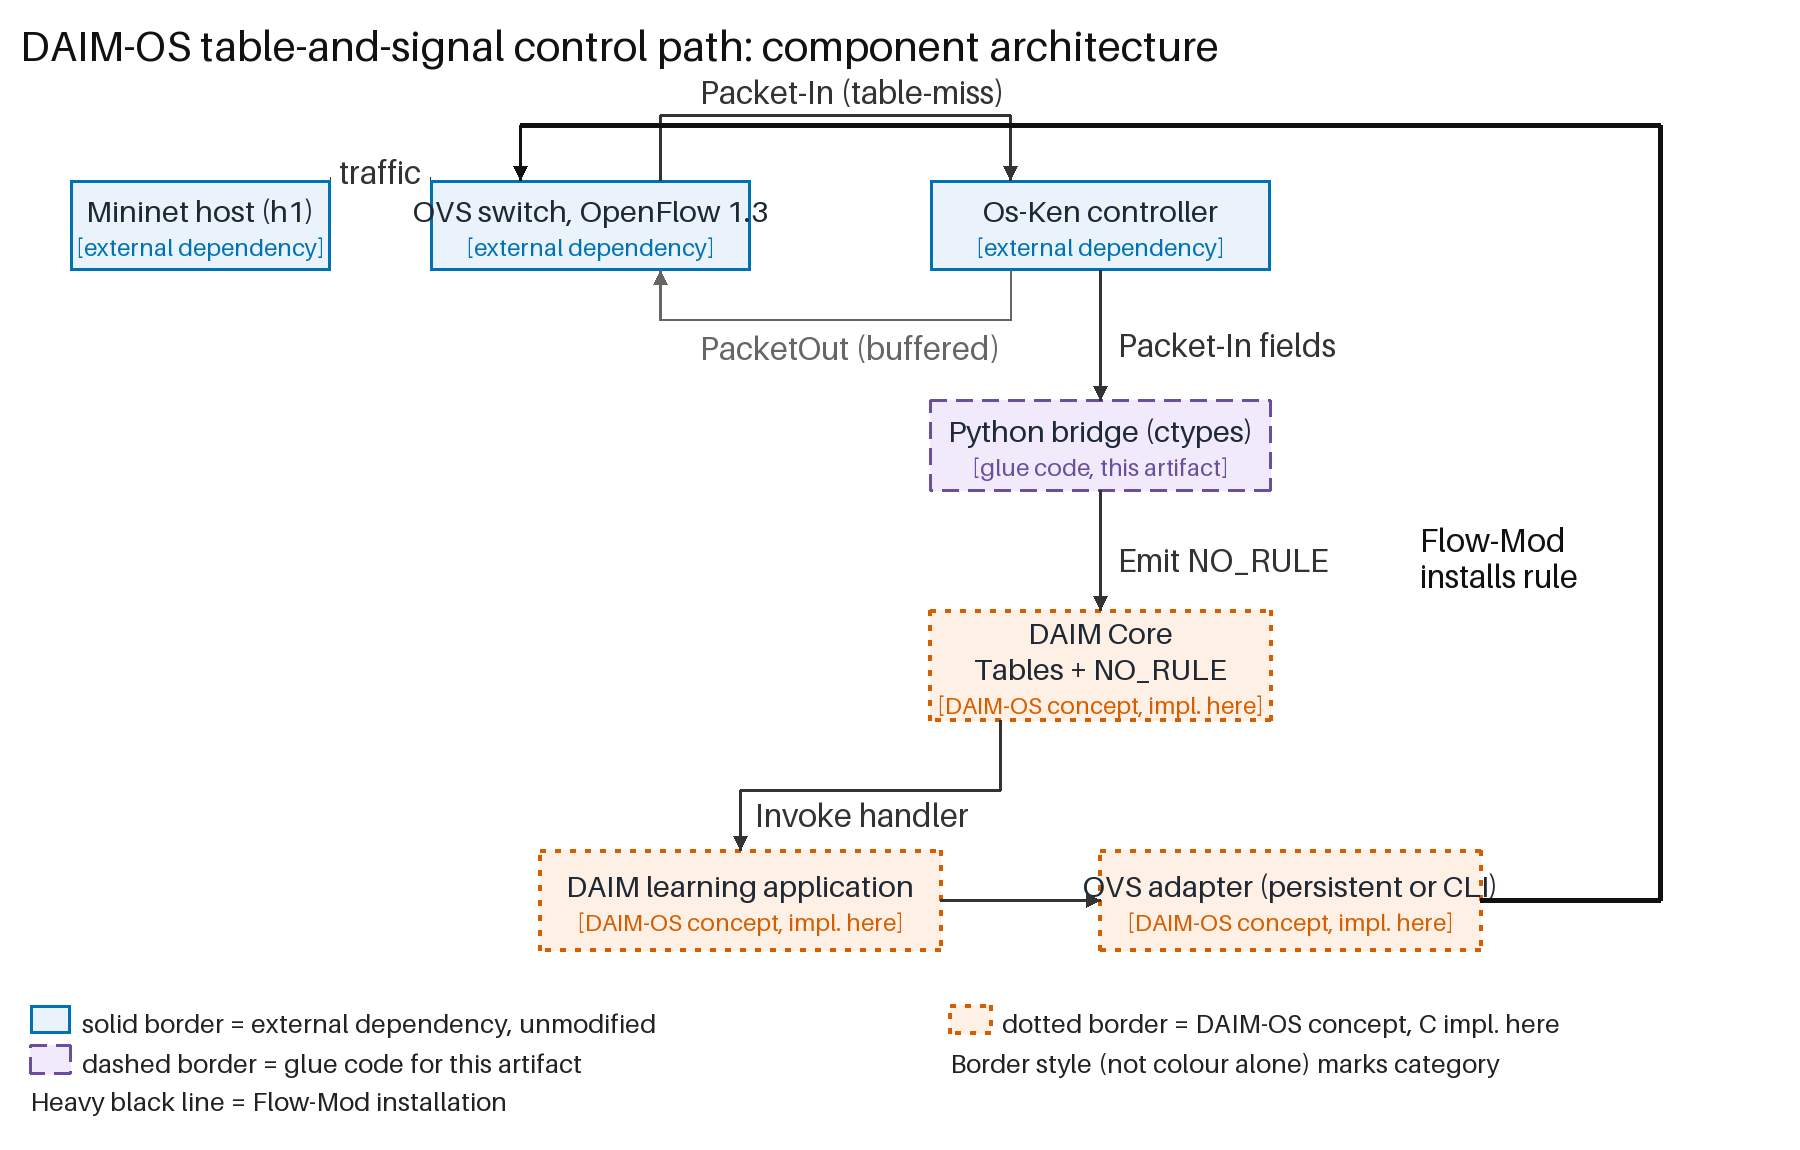
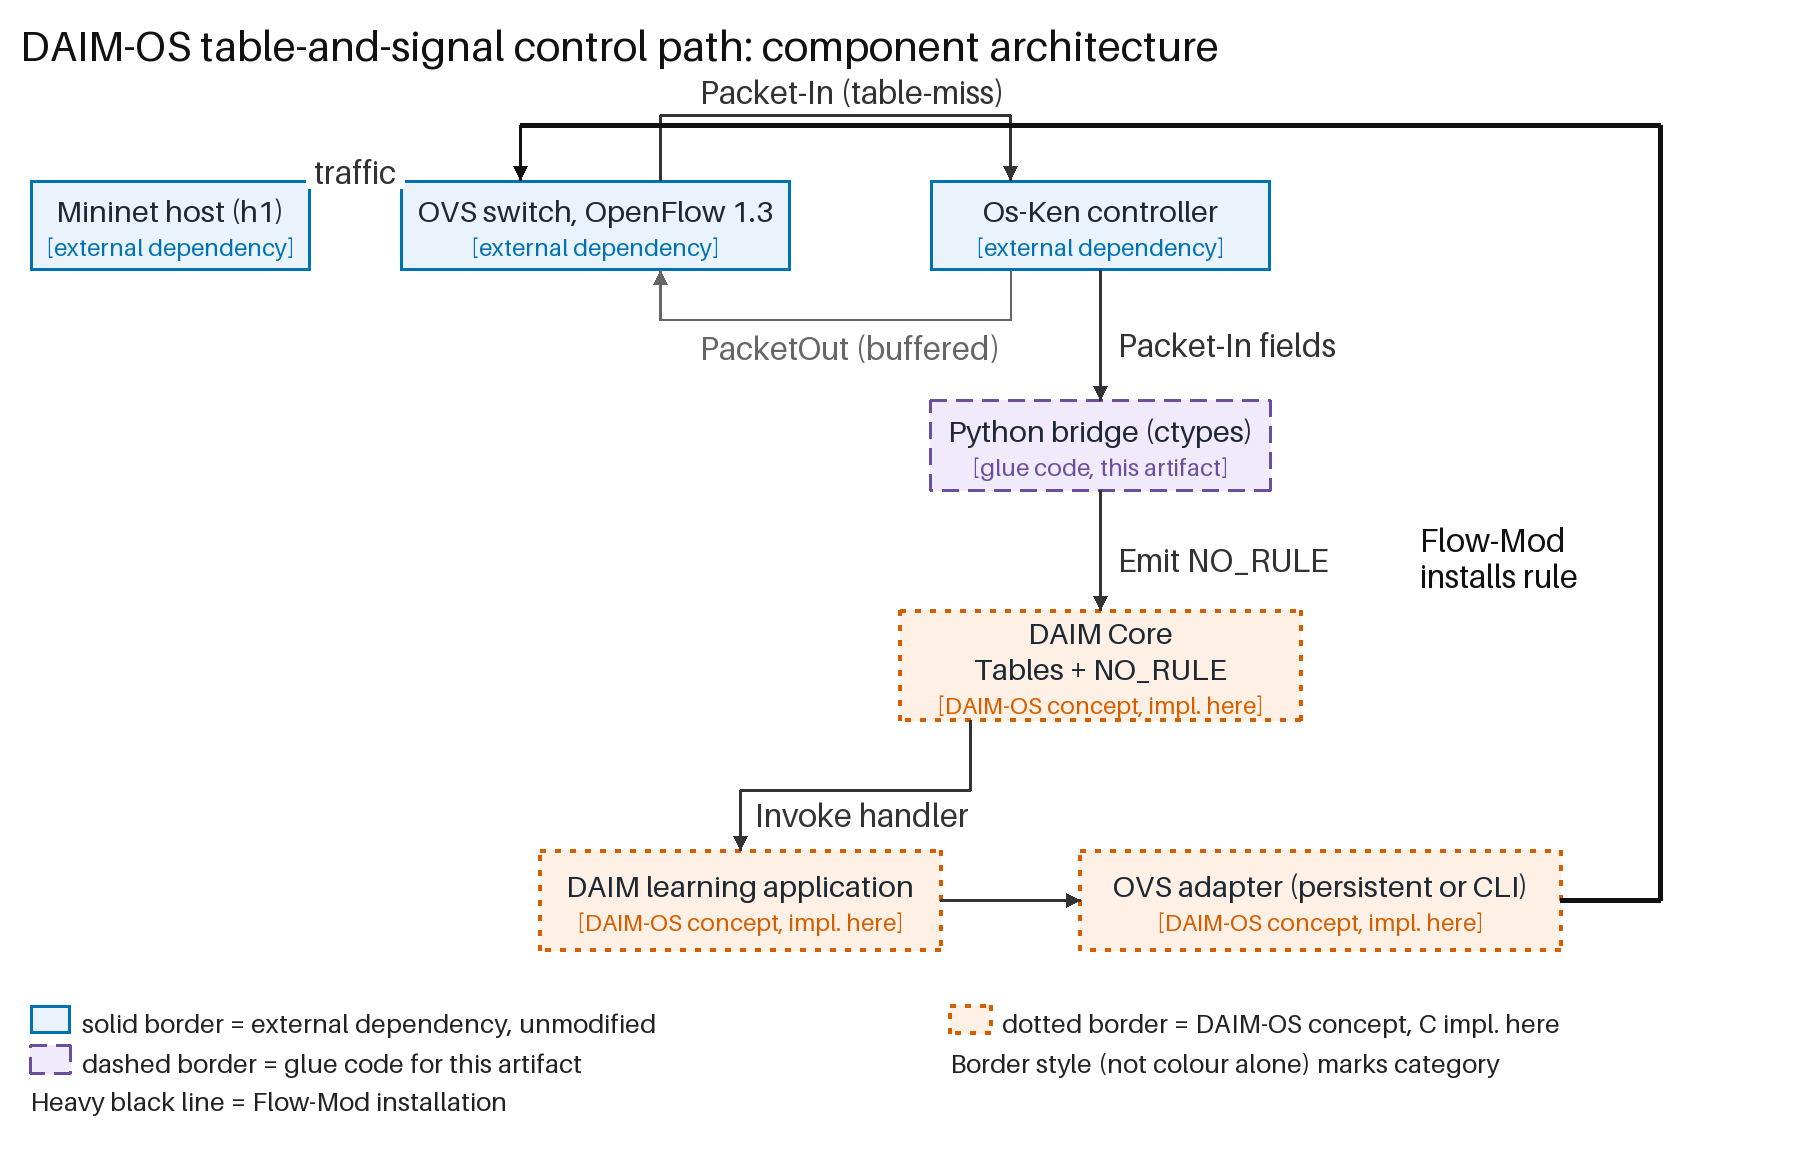
Redraw Figures 2, 7 and 9 to remove overlaps (visual-only; data unchanged)

diff --git a/analysis/stage2_full_compare_paired_analysis.py b/analysis/stage2_full_compare_paired_analysis.py
@@ -28,22 +28,29 @@ BOOTSTRAPS = 20000
 MODES = ["daim_process_per_rule", "daim_persistent", "direct_ovs_cli", "direct_osken"]
 SIZES = [8, 16, 32, 64]
 MODE_LABELS = {
-    "daim_process_per_rule": "DAIM process-per-rule",
+    "daim_process_per_rule": "DAIM process/rule",
     "daim_persistent": "DAIM persistent",
     "direct_ovs_cli": "Direct ovs-ofctl",
-    "direct_osken": "Direct Os-Ken (no DAIM)",
+    "direct_osken": "Direct Os-Ken",
 }
-MODE_COLORS = {
-    "daim_process_per_rule": "#C45A24",
-    "daim_persistent": "#2457A6",
-    "direct_ovs_cli": "#6BA292",
-    "direct_osken": "#8A8A8A",
-}
+LINE_STYLES = ["solid", "dashed", "dotted", "dashdot"]
+MODE_COLORS = ["#0072B2", "#D55E00", "#009E73", "#7A5195"]
 PAIRS = [
     ("daim_persistent", "daim_process_per_rule"),
     ("daim_persistent", "direct_ovs_cli"),
     ("daim_persistent", "direct_osken"),
 ]
+
+def styled_segment(draw, a, b, style, width=3, color="#111111"):
+    x0,y0=a; x1,y1=b
+    length=max(1.0,((x1-x0)**2+(y1-y0)**2)**0.5)
+    patterns={"solid":[length],"dashed":[24,12],"dotted":[4,10],"dashdot":[24,9,4,9]}
+    pos=0.0; pi=0; on=True
+    while pos<length:
+        end=min(length,pos+patterns[style][pi%len(patterns[style])])
+        if on:
+            draw.line((x0+(x1-x0)*pos/length,y0+(y1-y0)*pos/length,x0+(x1-x0)*end/length,y0+(y1-y0)*end/length),fill=color,width=width)
+        pos=end; pi+=1; on=not on
 
 
 def bootstrap_mean_ci(values, rng):
@@ -61,74 +68,68 @@ def bootstrap_median_ci(values, rng):
 
 
 def draw_chart(per_mode, paired, path):
-    width, height = 1500, 1250
-    image = Image.new("RGB", (width, height), "white")
-    draw = ImageDraw.Draw(image)
-    font = ImageFont.load_default(size=34)
-    small = ImageFont.load_default(size=30)
+    """Two-panel figure (matplotlib; values in ms). Visual layout only --
+    the plotted statistics are those in the statistics JSON."""
+    import matplotlib
+    matplotlib.use("Agg")
+    import matplotlib.pyplot as plt
 
-    # Left panel: per-mode mean install time vs. size, with CI whiskers.
-    left0, left1 = 120, 1380
-    top, bottom = 70, 500
-    draw.line((left0, top, left0, bottom), fill="#222222", width=2)
-    draw.line((left0, bottom, left1, bottom), fill="#222222", width=2)
-    ymax = max(per_mode[s][m]["bootstrap_95_ci_us"][1] for s in SIZES for m in MODES) * 1.1
-    xs = {s: left0 + (i + 0.5) * (left1 - left0) / len(SIZES) for i, s in enumerate(SIZES)}
+    def get(d, k):
+        return d[k] if k in d else d[str(k)]
 
-    def y_of(v):
-        return bottom - (v / ymax) * (bottom - top)
+    markers = ["o", "s", "^", "D"]
+    fills = [True, False, False, False]
+    styles = ["-", "--", ":", "-."]
+    plt.rcParams.update({"font.size": 11, "axes.spines.top": False, "axes.spines.right": False})
+    fig, (ax1, ax2) = plt.subplots(1, 2, figsize=(11.5, 5.2), gridspec_kw={"width_ratios": [1, 1.05]})
 
-    for m in MODES:
-        pts = []
-        for s in SIZES:
-            v = per_mode[s][m]["mean_us"]
-            ci = per_mode[s][m]["bootstrap_95_ci_us"]
-            x = xs[s]
-            pts.append((x, y_of(v)))
-            draw.line((x, y_of(ci[0]), x, y_of(ci[1])), fill=MODE_COLORS[m], width=2)
-        for a, b in zip(pts, pts[1:]):
-            draw.line((*a, *b), fill=MODE_COLORS[m], width=3)
-        for x, y in pts:
-            draw.ellipse((x - 4, y - 4, x + 4, y + 4), fill=MODE_COLORS[m])
-    for s in SIZES:
-        draw.text((xs[s] - 10, bottom + 8), str(s), fill="#222222", font=small)
-    draw.text((left0, bottom + 30), "Switches (n); mean install time (us) with 95% CI", fill="#222222", font=font)
+    xs = list(range(len(SIZES)))
     for i, m in enumerate(MODES):
-        cy = top + i * 22
-        draw.rectangle((left0, cy, left0 + 16, cy + 12), fill=MODE_COLORS[m])
-        draw.text((left0 + 22, cy - 2), MODE_LABELS[m], fill="#222222", font=small)
+        means = [get(per_mode, s)[m]["mean_us"] / 1000 for s in SIZES]
+        lo = [get(per_mode, s)[m]["bootstrap_95_ci_us"][0] / 1000 for s in SIZES]
+        hi = [get(per_mode, s)[m]["bootstrap_95_ci_us"][1] / 1000 for s in SIZES]
+        off = (i - 1.5) * 0.06
+        ax1.errorbar([x + off for x in xs], means, yerr=[[a - l for a, l in zip(means, lo)], [h - a for a, h in zip(means, hi)]],
+                     color=MODE_COLORS[i], linestyle=styles[i], marker=markers[i], markersize=7,
+                     markerfacecolor=MODE_COLORS[i] if fills[i] else "white", capsize=3, linewidth=1.6,
+                     label=MODE_LABELS[m])
+    ax1.set_xticks(xs)
+    ax1.set_xticklabels([str(s) for s in SIZES])
+    ax1.set_xlabel("Number of OVS switches")
+    ax1.set_ylabel("Mean per-switch install time (ms)")
+    ax1.set_title("A. Per-mode mean, bootstrap 95% CI", loc="left", fontsize=12)
+    ax1.set_ylim(bottom=0)
+    ax1.grid(axis="y", alpha=0.2)
+    ax1.legend(loc="upper center", bbox_to_anchor=(0.5, -0.16), ncol=2, frameon=False, fontsize=9.5)
 
-    # Lower panel: paired mean differences (persistent - other), forest-plot style.
-    right0, right1 = 120, 1380
-    top, bottom = 670, 1100
-    all_diffs = [paired[s][f"{a}_minus_{b}"]["bootstrap_95_ci_us"] for s in SIZES for a, b in PAIRS]
-    dmax = max(abs(v) for ci in all_diffs for v in ci) * 1.15
-
-    def xd_of(v):
-        return (right0 + right1) / 2 + (v / dmax) * 430
-
-    draw.line((xd_of(0), top, xd_of(0), bottom), fill="#222222", width=2)
-    row_h = (bottom - top) / (len(SIZES) * len(PAIRS))
+    ypos = []
+    labels = []
     row = 0
-    pair_colors = ["#2457A6", "#6BA292", "#8A8A8A"]
-    for s in SIZES:
+    for si, s in enumerate(SIZES):
         for pi, (a, b) in enumerate(PAIRS):
-            y = top + (row + 0.5) * row_h
-            d = paired[s][f"{a}_minus_{b}"]
-            ci = d["bootstrap_95_ci_us"]
-            mean = d["mean_diff_us"]
-            draw.line((xd_of(ci[0]), y, xd_of(ci[1]), y), fill=pair_colors[pi], width=3)
-            draw.ellipse((xd_of(mean) - 3, y - 3, xd_of(mean) + 3, y + 3), fill=pair_colors[pi])
-            if pi == 0:
-                draw.text((right0, y - 7), f"n={s}", fill="#222222", font=small)
-            row += 1
-    draw.text((right0, bottom + 30), "Paired mean difference vs. persistent (us), 95% CI; 0 = no difference", fill="#222222", font=font)
-    for i, (a, b) in enumerate(PAIRS):
-        cy = top + i * 30
-        draw.rectangle((right0 + 670, cy, right0 + 690, cy + 18), fill=pair_colors[i])
-        draw.text((right0 + 700, cy - 4), f"persistent - {MODE_LABELS[b]}", fill="#222222", font=small)
-
-    image.save(path)
+            d = get(paired, s)[f"{a}_minus_{b}"]
+            ci = [v / 1000 for v in d["bootstrap_95_ci_us"]]
+            mean = d["mean_diff_us"] / 1000
+            y = -(si * 4 + pi)
+            ax2.plot(ci, [y, y], color=MODE_COLORS[pi], linestyle=styles[pi], linewidth=1.8)
+            ax2.plot([mean], [y], marker=markers[pi], color=MODE_COLORS[pi], markersize=7,
+                     markerfacecolor=MODE_COLORS[pi] if fills[pi] else "white")
+        ypos.append(-(si * 4 + 1))
+        labels.append(f"{s} switches")
+    ax2.axvline(0, color="#222222", linewidth=1.2)
+    ax2.set_yticks(ypos)
+    ax2.set_yticklabels(labels)
+    ax2.set_xlabel("Paired mean difference (ms), persistent minus comparison")
+    ax2.set_title("B. Paired difference vs. persistent, 95% CI", loc="left", fontsize=12)
+    ax2.grid(axis="x", alpha=0.2)
+    from matplotlib.lines import Line2D
+    handles = [Line2D([0], [0], color=MODE_COLORS[i], linestyle=styles[i], marker=markers[i],
+                      markerfacecolor=MODE_COLORS[i] if fills[i] else "white", label=f"persistent - {MODE_LABELS[b]}")
+               for i, (a, b) in enumerate(PAIRS)]
+    ax2.legend(handles=handles, loc="upper center", bbox_to_anchor=(0.5, -0.16), ncol=1, frameon=False, fontsize=9.5)
+    fig.tight_layout()
+    fig.savefig(path, dpi=200)
+    plt.close(fig)
 
 
 def main():
@@ -155,6 +156,8 @@ def main():
                 "sd_us": float(np.std(vals, ddof=1)) if len(vals) > 1 else 0.0,
                 "bootstrap_95_ci_us": bootstrap_mean_ci(vals, rng) if len(vals) > 1 else [vals[0], vals[0]],
                 "median_us": float(np.median(vals)),
+                "p95_us": float(np.percentile(vals, 95)),
+                "p99_us": float(np.percentile(vals, 99)),
                 "max_us": float(np.max(vals)),
                 "n_gt_2x_median": int(sum(1 for v in vals if v > 2 * np.median(vals))),
             }
@@ -176,6 +179,8 @@ def main():
                 "bootstrap_95_ci_us": bootstrap_mean_ci(diffs, rng) if len(diffs) > 1 else [diffs[0], diffs[0]],
                 "ratio_a_over_b": per_mode[size][a]["mean_us"] / per_mode[size][b]["mean_us"],
                 "median_diff_us": float(np.median(diffs)),
+                "p95_diff_us": float(np.percentile(diffs, 95)),
+                "p99_diff_us": float(np.percentile(diffs, 99)),
                 "bootstrap_95_ci_median_us": bootstrap_median_ci(diffs, rng) if len(diffs) > 1 else [diffs[0], diffs[0]],
                 "median_ratio_a_over_b": per_mode[size][a]["median_us"] / per_mode[size][b]["median_us"],
             }

diff --git a/analysis/paper1_analysis.py b/analysis/paper1_analysis.py
@@ -91,12 +91,12 @@ def draw_chart(rows, path):
         draw.text((x - 18, bottom + 18), str(size), fill="#222222", font=font)
     draw.text((530, 815), "Number of OVS switches", fill="#222222", font=font)
     draw.text((20, 20), "Mean per-switch rule installation time (ms), whiskers = bootstrap 95% CI", fill="#222222", font=font)
-    draw.ellipse((1006, 101, 1024, 119), fill=colors["daim_adapter"])
-    styled_segment(draw, (990,110), (1038,110), "solid", 4, colors["daim_adapter"])
-    draw.text((1045, 95), labels["daim_adapter"], fill="#222222", font=small)
-    draw.rectangle((1006, 146, 1024, 164), outline=colors["direct_ovs"], width=3, fill="white")
-    styled_segment(draw, (990,155), (1038,155), "dashed", 3, colors["direct_ovs"])
-    draw.text((1045, 140), labels["direct_ovs"], fill="#222222", font=small)
+    draw.ellipse((206, 121, 224, 139), fill=colors["daim_adapter"])
+    styled_segment(draw, (190,130), (238,130), "solid", 4, colors["daim_adapter"])
+    draw.text((245, 115), labels["daim_adapter"], fill="#222222", font=small)
+    draw.rectangle((206, 166, 224, 184), outline=colors["direct_ovs"], width=3, fill="white")
+    styled_segment(draw, (190,175), (238,175), "dashed", 3, colors["direct_ovs"])
+    draw.text((245, 160), labels["direct_ovs"], fill="#222222", font=small)
     image.save(path)
 
 
@@ -190,13 +190,13 @@ def draw_architecture(path):
 
     draw.text((20, 20), "DAIM-OS table-and-signal control path: component architecture", fill="#111111", font=title_font)
 
-    host = (70, 180, 330, 270)
-    switch = (430, 180, 750, 270)
+    host = (30, 180, 310, 270)
+    switch = (400, 180, 790, 270)
     controller = (930, 180, 1270, 270)
     bridge = (930, 400, 1270, 490)
-    core = (930, 610, 1270, 720)
+    core = (900, 610, 1300, 720)
     app = (540, 850, 940, 950)
-    adapter = (1100, 850, 1480, 950)
+    adapter = (1080, 850, 1560, 950)
 
     EXT_FILL, EXT_LINE = "#EAF2FB", "#0072B2"
     GLUE_FILL, GLUE_LINE = "#F0EAFB", "#6B4E9E"

diff --git a/docs/FIGURE_REVISION_20261002.md b/docs/FIGURE_REVISION_20261002.md
@@ -1,0 +1,26 @@
+# Visual-only figure revision (2026-10-02)
+
+Three figures were redrawn because labels and legends overlapped axes or data
+in the rendered manuscript. **No data, statistic or plotted value changed.**
+The redrawn figures read the same statistics JSON files (`paper1_statistics.json`,
+`stage2_full_compare_paired_statistics.json`), which are unmodified.
+
+| Figure | File | Change |
+| --- | --- | --- |
+| 2 | `results/paper1/paper1_architecture.png` | Component boxes widened so labels fit inside them |
+| 7 | `results/paper1/paper1_installation_time.png` | Legend moved off the data lines |
+| 9 | `results/paper1/stage2_full_compare_paired.png` | Redrawn with matplotlib: non-overlapping legends, labelled axes, panel B in ms with tick marks (previously unlabelled ticks, label in us) |
+
+Previous SHA-256 values of the packaged figures (the published v1.1.0 snapshot
+is unchanged and keeps its own versions):
+
+| File | Previous SHA-256 |
+| --- | --- |
+| paper1_architecture.png | 9ff74fe28d02e36e742e9a6e7b61c6db11a0b0abab63f0b43ed1a531927abd08 |
+| paper1_installation_time.png | 6ce8a80bb3c9dc9fb2d693d352246a3e74071e961ecacd1c9aa04f536d00dda7 |
+| stage2_full_compare_paired.png | 3c67ceb502f17e6016fbce5a1a70a1fc4496988ee68b2a74603b81edf2832374 |
+
+The packaged `analysis/stage2_full_compare_paired_analysis.py` previously drew a
+different colour scheme from the manuscript's Figure 9; the package now uses the
+same script as the manuscript. The earlier manifest is retained as
+`docs/manifest_before_figure_revision_20261002.sha256`. Not published.
